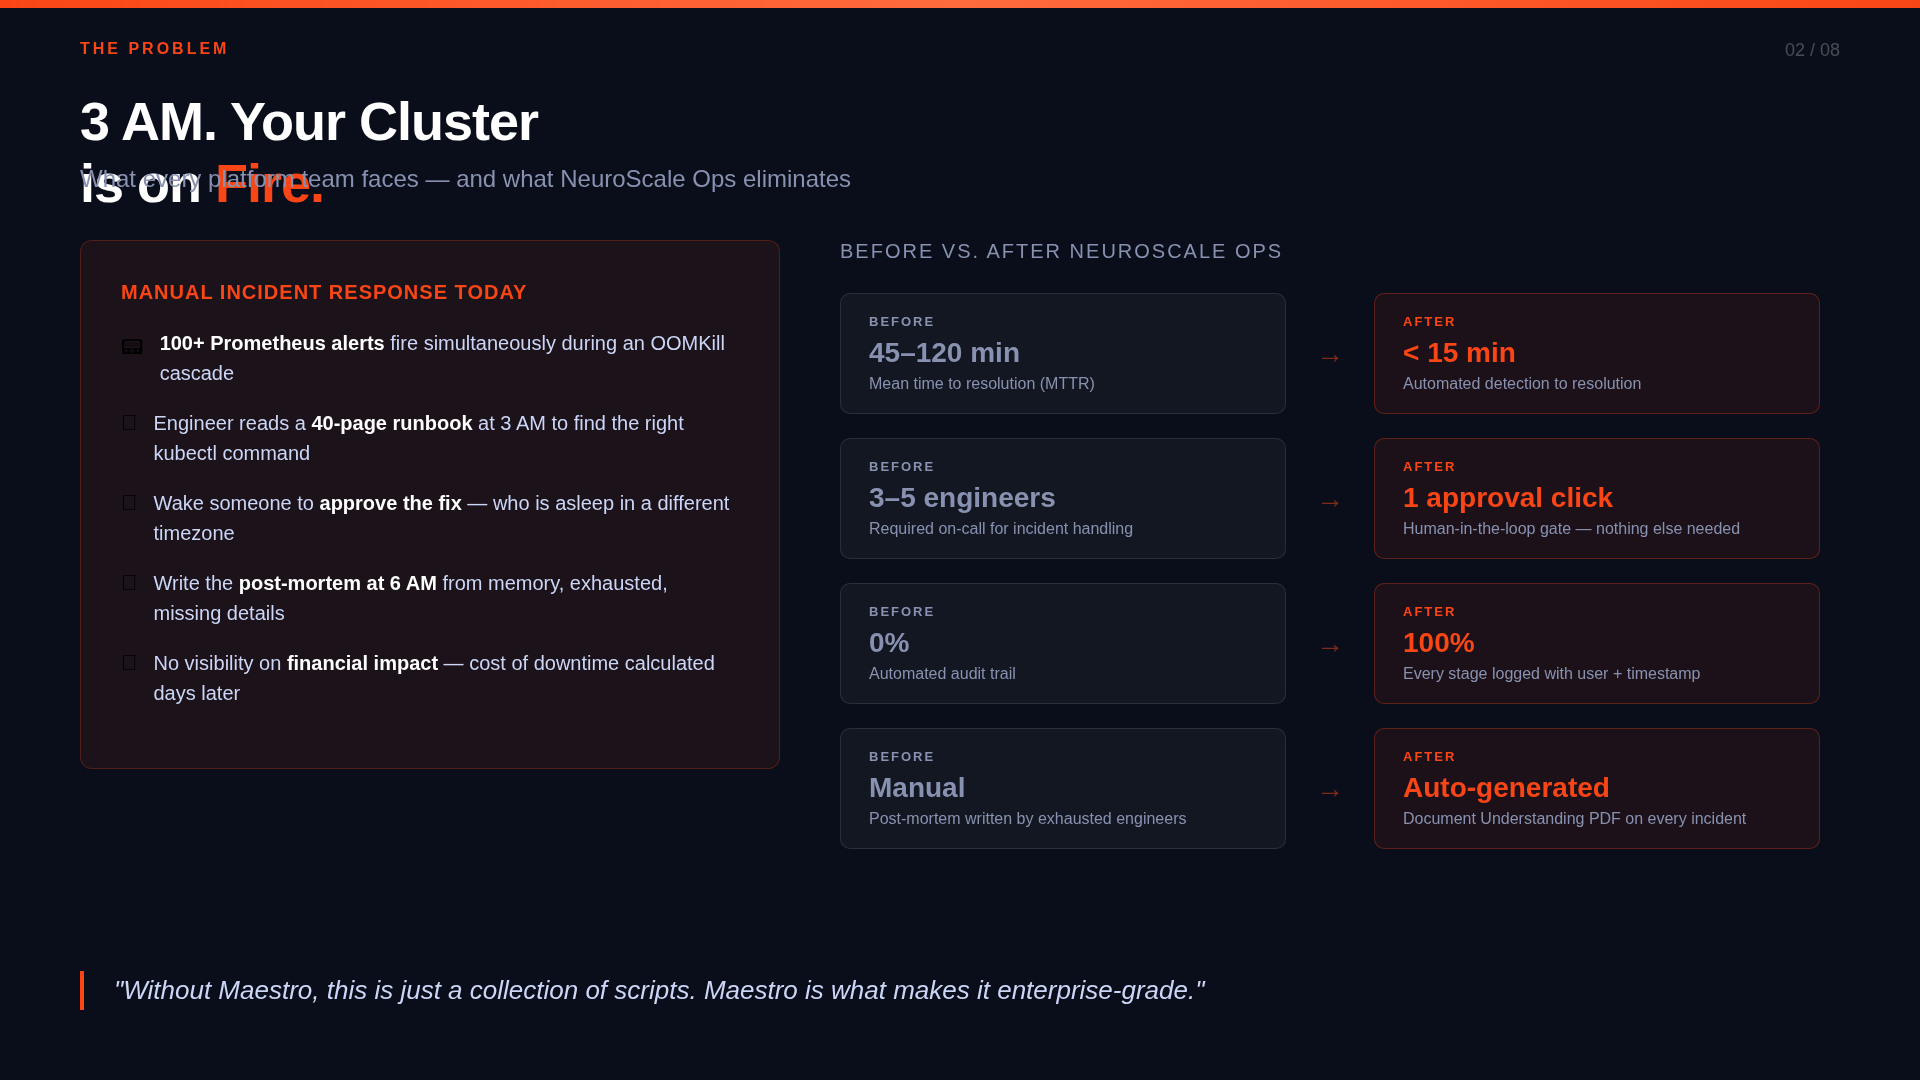
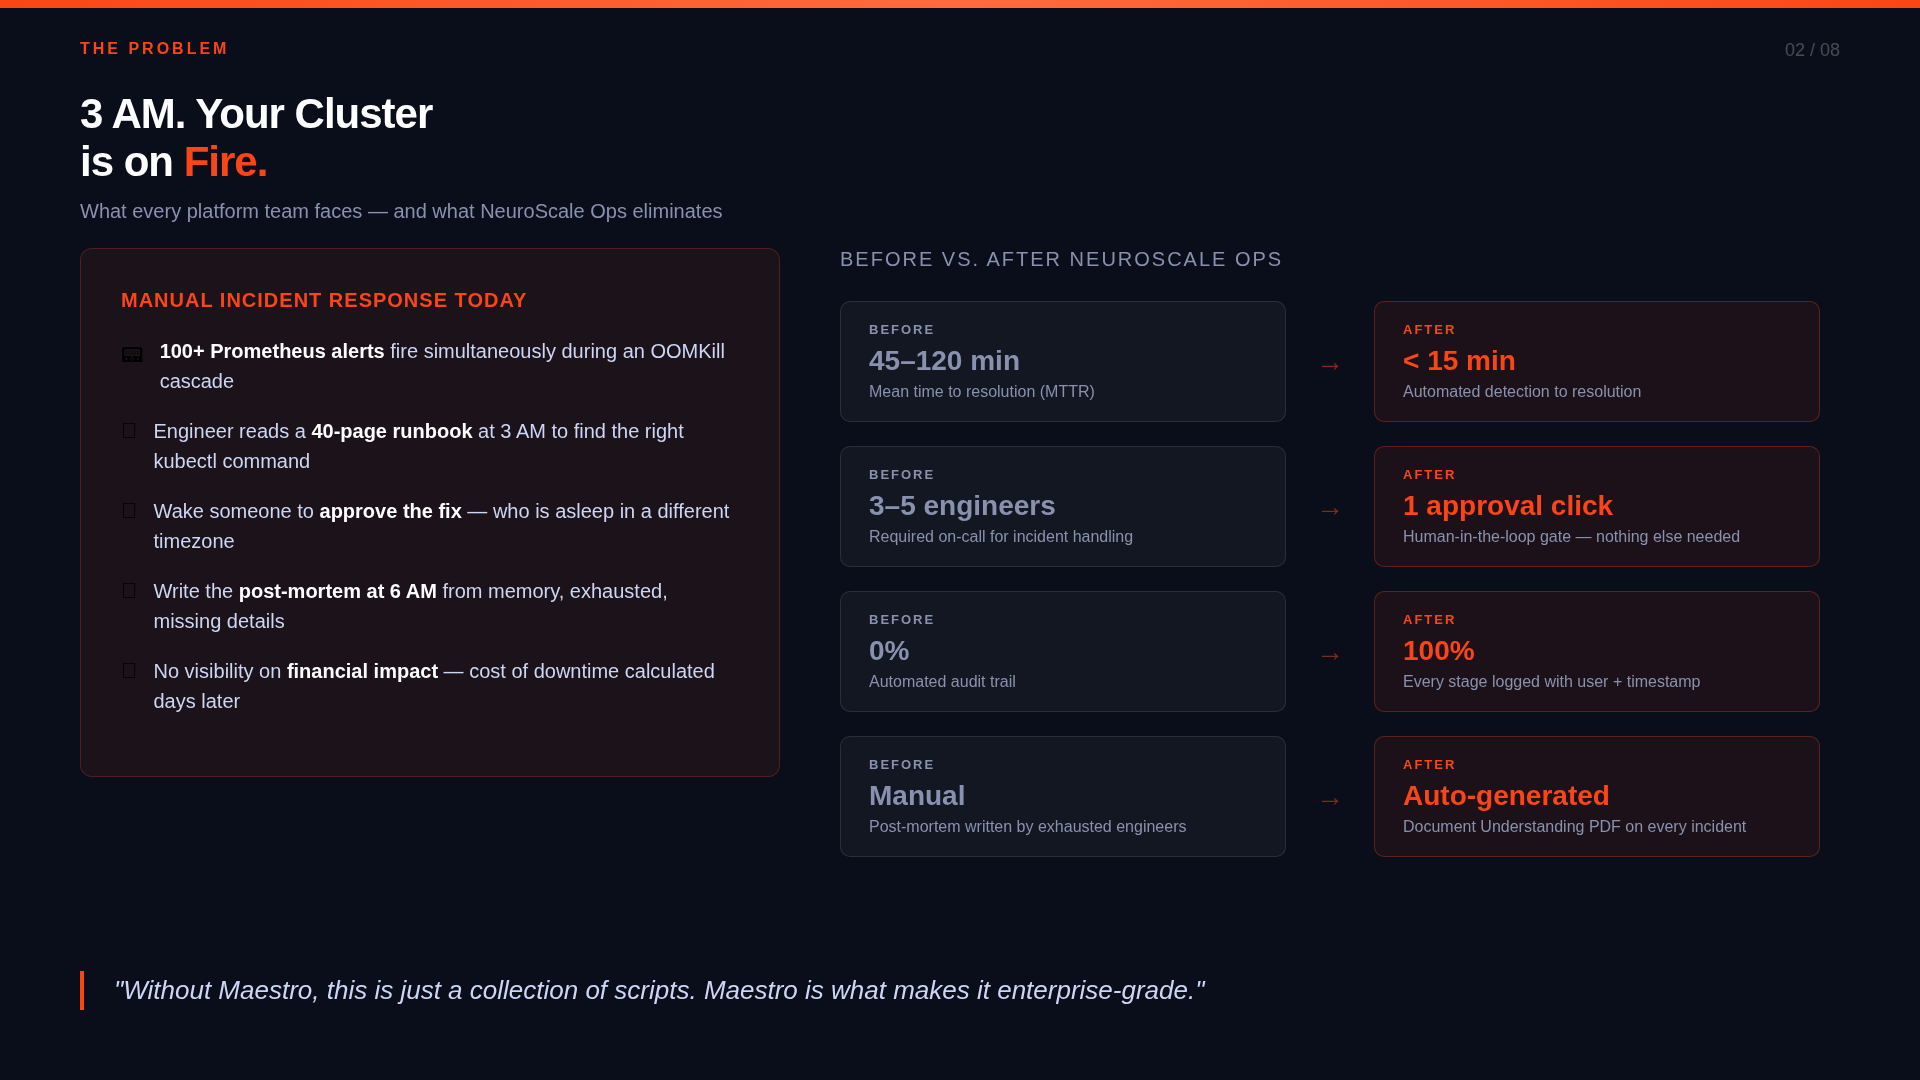
fix: resolve text overlay on slides 2, 3, 8 — title/subtitle spacing

diff --git a/demo_assets/neurascale-ops-deck.html-slides/slide-8.html b/demo_assets/neurascale-ops-deck.html-slides/slide-8.html
@@ -19,14 +19,14 @@ body { width: 1920px; height: 1080px; overflow: hidden; font-family: 'Inter', 'S
 .slide-label { position: absolute; top: 40px; left: 80px; font-size: 16px; color: #FA4616; font-weight: 600; letter-spacing: 3px; text-transform: uppercase; }
 
 /* Center layout */
-.center-block { position: absolute; top: 90px; left: 50%; transform: translateX(-50%); text-align: center; width: 1400px; }
-.tagline { font-size: 18px; color: #FA4616; font-weight: 700; letter-spacing: 4px; text-transform: uppercase; margin-bottom: 20px; }
-.main-title { font-size: 80px; font-weight: 900; color: #ffffff; letter-spacing: -3px; line-height: 1.0; margin-bottom: 16px; }
+.center-block { position: absolute; top: 80px; left: 50%; transform: translateX(-50%); text-align: center; width: 1100px; }
+.tagline { font-size: 16px; color: #FA4616; font-weight: 700; letter-spacing: 4px; text-transform: uppercase; margin-bottom: 14px; }
+.main-title { font-size: 68px; font-weight: 900; color: #ffffff; letter-spacing: -2px; line-height: 1.0; margin-bottom: 14px; }
 .main-title span { color: #FA4616; }
-.main-sub { font-size: 24px; color: #8892b0; line-height: 1.6; }
+.main-sub { font-size: 20px; color: #8892b0; line-height: 1.5; }
 
 /* Metrics row */
-.metrics-row { position: absolute; top: 430px; left: 80px; right: 80px; display: flex; gap: 24px; }
+.metrics-row { position: absolute; top: 420px; left: 80px; right: 80px; display: flex; gap: 24px; }
 .metric-big {
   flex: 1; background: rgba(255,255,255,0.04); border: 1px solid rgba(255,255,255,0.08);
   border-radius: 16px; padding: 30px 20px; text-align: center;

diff --git a/demo_assets/neurascale-ops-deck.html-slides/slide-2.html b/demo_assets/neurascale-ops-deck.html-slides/slide-2.html
@@ -25,18 +25,19 @@ body { width: 1920px; height: 1080px; overflow: hidden; font-family: 'Inter', 'S
 /* Slide title */
 .title {
   position: absolute; top: 90px; left: 80px;
-  font-size: 54px; font-weight: 800; color: #ffffff; letter-spacing: -1px;
+  font-size: 42px; font-weight: 800; color: #ffffff; letter-spacing: -1px;
+  line-height: 1.15;
 }
 .title span { color: #FA4616; }
 
 .subtitle {
-  position: absolute; top: 165px; left: 80px;
-  font-size: 24px; color: #8892b0; font-weight: 400;
+  position: absolute; top: 200px; left: 80px;
+  font-size: 20px; color: #8892b0; font-weight: 400;
 }
 
 /* Problem statement */
 .problem-box {
-  position: absolute; top: 240px; left: 80px; width: 700px;
+  position: absolute; top: 248px; left: 80px; width: 700px;
   background: rgba(250,70,22,0.07);
   border: 1px solid rgba(250,70,22,0.25);
   border-radius: 12px;
@@ -55,7 +56,7 @@ body { width: 1920px; height: 1080px; overflow: hidden; font-family: 'Inter', 'S
 
 /* Before/After metric */
 .metrics {
-  position: absolute; top: 240px; left: 840px; width: 980px;
+  position: absolute; top: 248px; left: 840px; width: 980px;
 }
 .metrics-title {
   font-size: 20px; color: #8892b0; font-weight: 500;

diff --git a/demo_assets/neurascale-ops-deck.html-slides/slide-3.html b/demo_assets/neurascale-ops-deck.html-slides/slide-3.html
@@ -15,9 +15,9 @@ body { width: 1920px; height: 1080px; overflow: hidden; font-family: 'Inter', 'S
 }
 .slide-num { position: absolute; top: 40px; right: 80px; font-size: 18px; color: rgba(255,255,255,0.25); font-weight: 500; }
 .slide-label { position: absolute; top: 40px; left: 80px; font-size: 16px; color: #FA4616; font-weight: 600; letter-spacing: 3px; text-transform: uppercase; }
-.title { position: absolute; top: 90px; left: 80px; font-size: 52px; font-weight: 800; color: #ffffff; letter-spacing: -1px; }
+.title { position: absolute; top: 90px; left: 80px; font-size: 42px; font-weight: 800; color: #ffffff; letter-spacing: -1px; line-height: 1.15; }
 .title span { color: #FA4616; }
-.subtitle { position: absolute; top: 165px; left: 80px; font-size: 24px; color: #8892b0; }
+.subtitle { position: absolute; top: 198px; left: 80px; font-size: 20px; color: #8892b0; }
 
 /* Architecture image */
 .arch-image {
